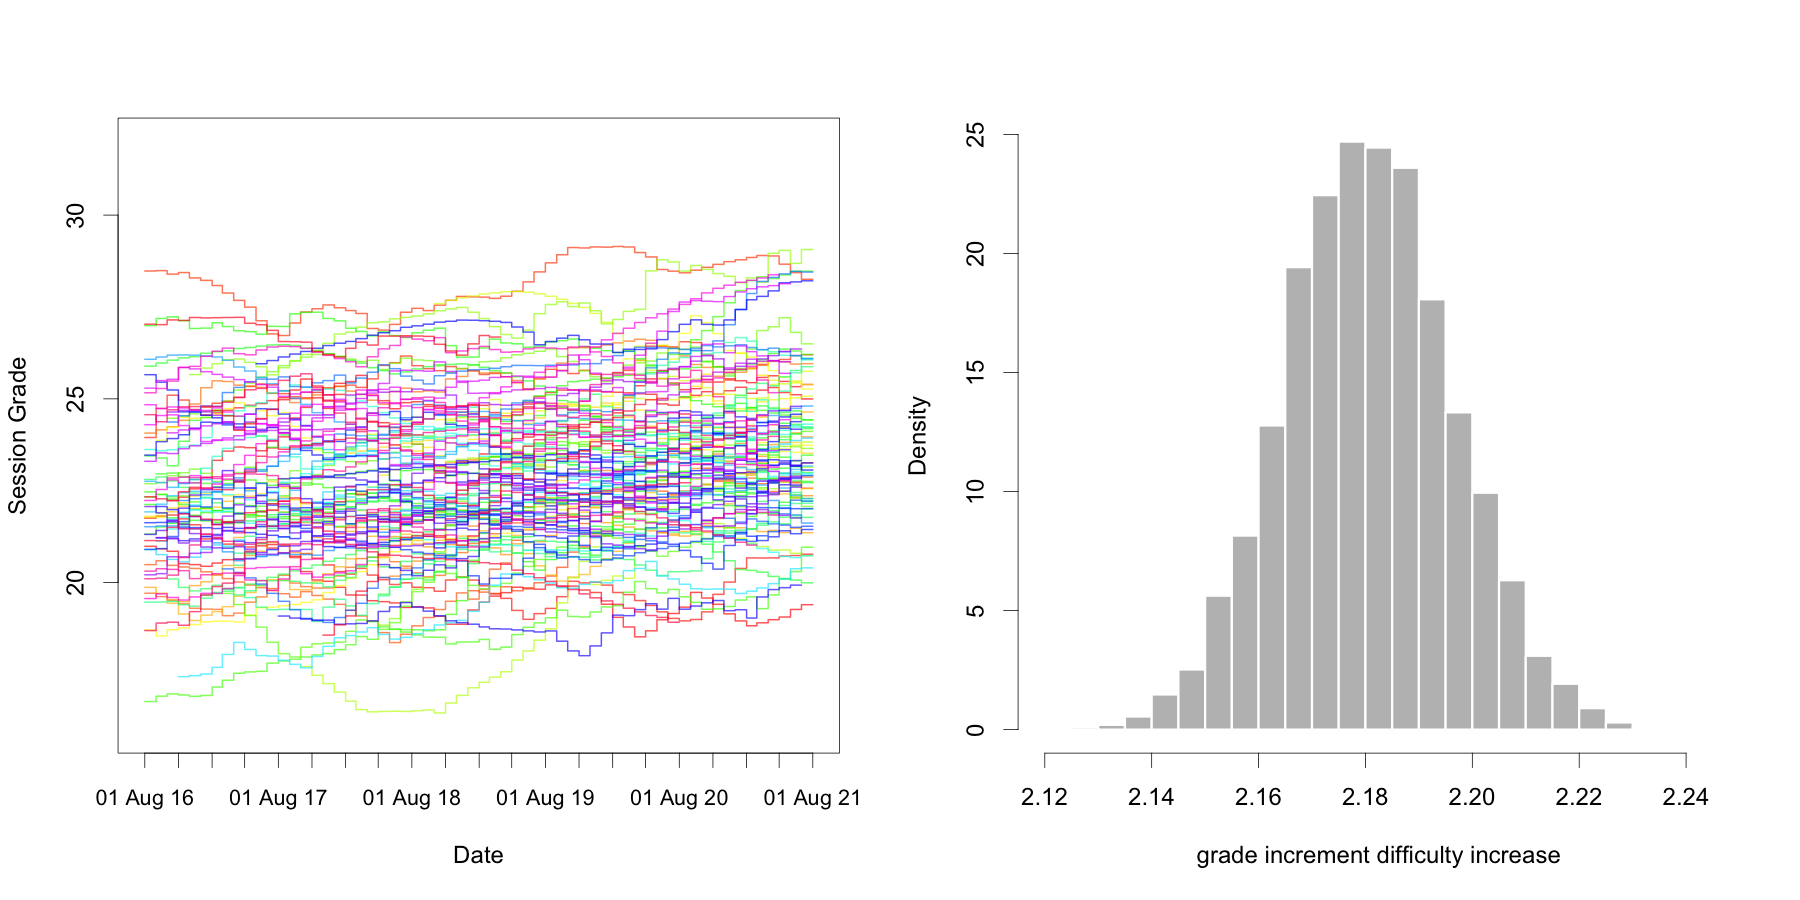
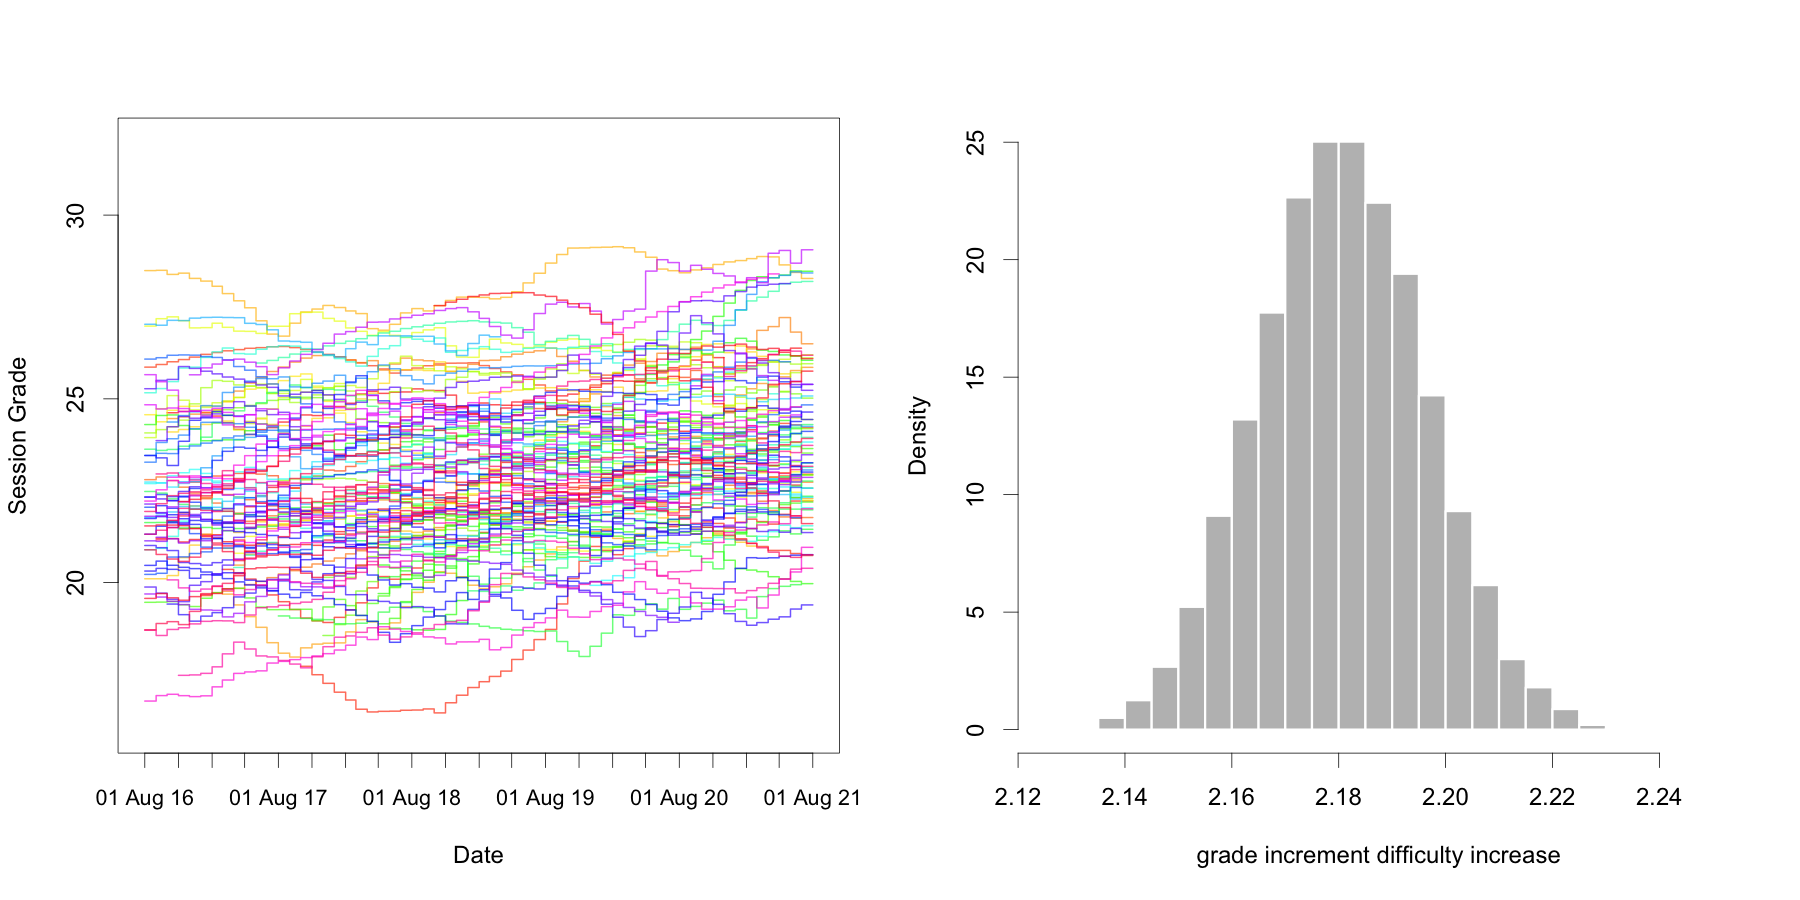
figure session versus flash grade

diff --git a/manuscript/ClimbingGrades.tex b/manuscript/ClimbingGrades.tex
@@ -35,6 +35,18 @@
 \newcommand{\stantime}{2 hour 59 minutes}
 \newcommand{\meanregm}{0.64}
 
+\newcommand{\Nf}{67986}
+\newcommand{\meanmf}{0.76}
+\newcommand{\lowmf}{0.75}
+\newcommand{\highmf}{0.77}
+\newcommand{\meandf}{2.14}
+\newcommand{\lowdf}{2.11}
+\newcommand{\highdf}{2.17}
+
+\newcommand{\stantimef}{1 hour 56 minutes}
+\newcommand{\meanregmf}{0.64}
+
+
 \newcommand{\Cnz}{5}
 \newcommand{\Nnz}{2506}
 \newcommand{\meanmnz}{0.79}

diff --git a/results/aus/ascents-from-2016-08-01-to-2021-08-01-minAscents400-minFails1-session-processing-table.tex b/results/aus/ascents-from-2016-08-01-to-2021-08-01-minAscents400-minFails1-session-processing-table.tex
@@ -1,5 +1,5 @@
 % latex table generated in R 3.6.2 by xtable 1.8-4 package
-% Mon Sep  6 12:03:03 2021
+% Tue Sep  7 09:41:59 2021
 \begin{table}[ht]
 \centering
 \begingroup\fontsize{9pt}{10pt}\selectfont
